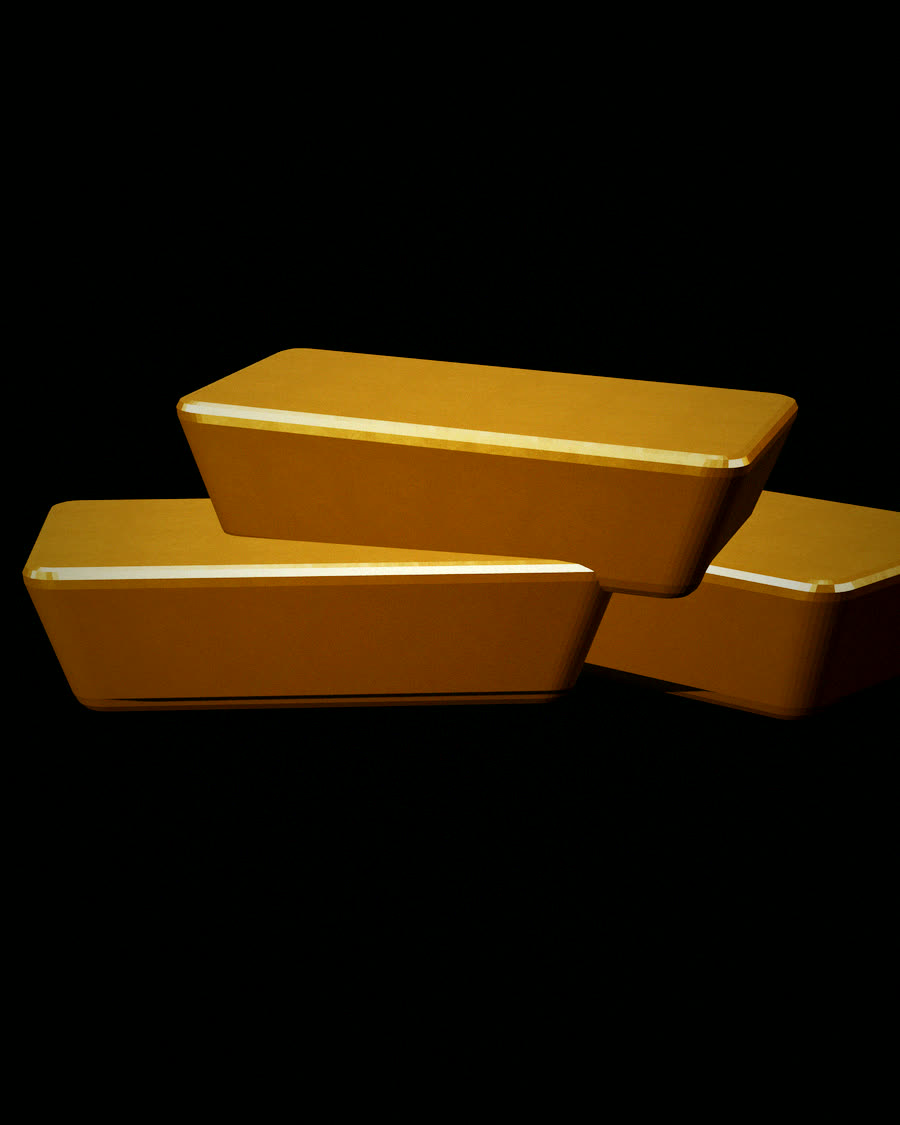
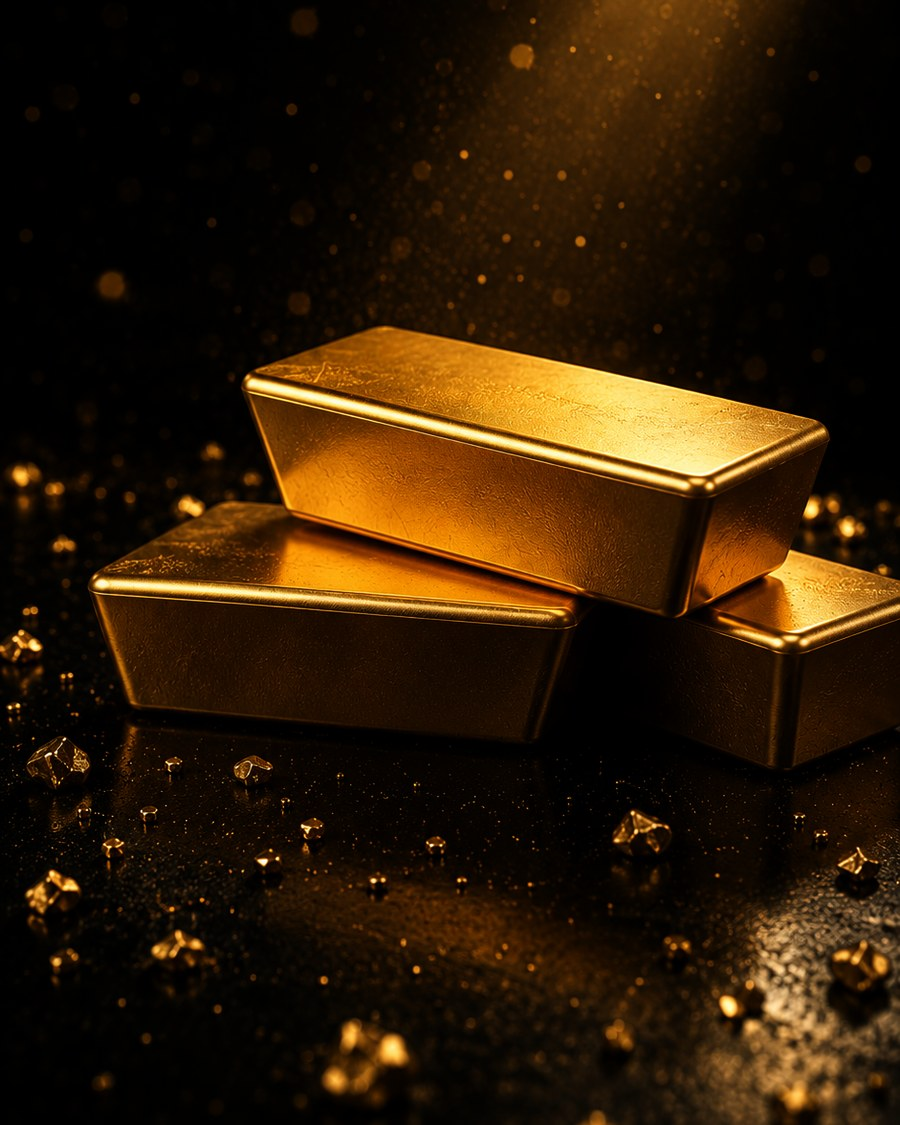
Bars & Bullion: the client's own image replaces the interim render
Five search rounds could not find licensable bullion photography that cleared
rule 2 of public/img/CREDITS.md, because commercial bullion photography exists
precisely to show the refiner's marks. The interim answer was a still rendered
from this site's own `ingotGeometry` — unmarked by construction, correct on the
rules, and weak beside two real photographs.

The client supplied this one, and it is better in every way that matters.

CHECKED BEFORE USE, NOT AFTER

The rule that removed the original bullion.jpg is the rule most likely to catch
this project out again, so the bar faces were inspected at full resolution
rather than at panel size. They carry cast surface texture only: no maker stamp,
no serial, no crest, no fineness claim. Nothing in frame asserts anything the
client has not verified. Rules 1 and 3 are not in question — no people, no
third-party premises.

TONED TO JOIN THE SET RATHER THAN LEAD IT

Cropped 4:5 from the 941x1672 source, keeping the light shaft and the grain
foreground, then a 1.34 gamma on the shadows and mids because it arrived
brighter than every neighbour: mean luminance 41.6 against jewellery's 25.8 and
coins' 33.0. It now sits at 29.9 with p90 94, inside the range the other three
occupy. The panel's own brightness(0.72) treatment then applies on top.

PROVENANCE RECORDED HONESTLY

CREDITS.md gains a row, and it deliberately does NOT claim a stock licence:
this is a client-generated ChatGPT image, client-owned under OpenAI's terms.
[…]

diff --git a/src/lib/site.ts b/src/lib/site.ts
@@ -379,7 +379,7 @@ export const services: readonly Service[] = [
     */
     image: "/img/bullion.jpg",
     imageAlt:
-      "Three cast gold bars resting on a dark surface, lit from one side, with no refiner markings.",
+      "Three cast gold bars stacked on a dark surface under a shaft of warm light, scattered with small gold grains, carrying no refiner markings.",
     enquiryHref: "/contact",
     confirmed: true,
   },

diff --git a/public/img/CREDITS.md b/public/img/CREDITS.md
@@ -7,8 +7,9 @@ Every photograph served from this directory, its licence, and why it was chosen.
 | `jewellery.jpg` | [Unsplash](https://unsplash.com/photos/LQdSOAw13KE) | [Unsplash License](https://unsplash.com/license) | Gold Jewellery panel |
 | `coins.jpg` | Openverse → rawpixel, public-domain museum work | **CC0 1.0** | Coins panel |
 | `silver.jpg` | [Pixabay](https://pixabay.com/photos/jewellery-2006/) — `cdn.pixabay.com/photo/2010/12/13/09/57/jewellery-2006_1280.jpg` | [Pixabay Content License](https://pixabay.com/service/license-summary/) — free commercial use, no attribution required | Silver panel |
+| `bullion.jpg` | **Client-supplied.** Generated by the client in ChatGPT — source `ChatGPT Image Aug 1, 2026, 10_08_16 AM.png`, 941×1672 | Client-owned: under OpenAI's terms the generating user holds the output rights, so it is theirs to use commercially. **This is NOT a stock licence — do not treat it as one, and do not assume a future replacement from the same folder carries one either.** Worth the client knowing that purely AI-generated images cannot be registered for copyright in some jurisdictions, including the US, which affects the ability to stop others reusing it — it does not affect their right to use it here. | Bars & Bullion panel |
 
-All three are served **pre-cropped to 900×1125 (4:5)** — the exact aspect the panels
+All four are served **pre-cropped to 900×1125 (4:5)** — the exact aspect the panels
 render. Cropping at source rather than with `object-cover` matters because the
 static build sets `images.unoptimized`, which disables Next's responsive
 `srcSet` entirely: every visitor downloads one fixed file, so any pixel outside
@@ -97,32 +98,27 @@ Cropped 4:5 favouring the filigree cluster, cooled slightly
 champagne — the panel's own gold overlay re-warms everything it touches — with
 the black deepened and a soft vignette. 65 KB.
 
-## The Bars & Bullion panel keeps the engraved plate, with evidence
+## The Bars & Bullion panel — resolved, after five failed search rounds
 
-Four search rounds now (Openverse CC0, Openverse CC-BY, Wikimedia, Pixabay) and
-every photographed bullion candidate fails rule 2 the same way the removed
-`bullion.jpg` did. The final Pixabay round, inspected under a grid overlay:
+Four search rounds (Openverse CC0, Openverse CC-BY, Wikimedia, Pixabay) and a
+fifth pass all failed the same way, and the failure was structural rather than
+bad luck: commercial bullion photography exists to SHOW the refiner's marks, and
+the marks are exactly what rule 2 forbids. Every candidate carried a maker stamp,
+a `999.9`, or a serial:
 
 - `gold-295936/295938`: cast button ingots with legible maker stamps and `999.9`
 - the stacked-bars macro: `FINE GOLD`, `999.9` and serial `100476` embossed on
-  **every visible face** — there is no clean 4:5 region
-- the remaining results were a 1933 US Double Eagle coin, a treasure pile of
-  coins (wrong panel), clipart, lava, and iron pyrite — fool's gold, on the
-  bullion panel of a gold-buying business
+  **every visible face** — no clean 4:5 region exists
+- the remainder were a 1933 Double Eagle, a coin pile (wrong panel), clipart,
+  lava, and iron pyrite — fool's gold, on a gold-buyer's bullion panel
 
-This is structural, not bad luck: commercial bullion photography exists to show
-the marks, and the marks are precisely what the rubric forbids. What unlocks the
-panel is photography of the client's own stock, or artwork commissioned without
-marks.
+An interim solution shipped briefly: a still rendered from this site's own
+`ingotGeometry`, which is unmarked by construction. It was correct on the rules
+and weak beside two real photographs.
 
-**What would unlock the bullion panel properly**, in order of preference:
-
-1. **Real photography of the actual counter, scales and stock.** The only images
-   that will genuinely serve this site, and they double as the answer for the
-   Visit panel.
-2. **An Unsplash or Pexels API key.** Both have this style — `jewellery.jpg`
-   came from Unsplash — but their catalogues are unreachable without one, and
-   even there, bullion photography mostly exists to show the marks.
-3. **Client-chosen images dropped into this directory.** Anything added here must
-   be checked against the three rules above first; rule 2 is the one that has
-   already caught this project out.
+The client then supplied the current image, which resolves it properly. It was
+checked against all three rules before use — the bar faces were inspected at
+full resolution, and they carry cast surface texture only: no stamp, no serial,
+no crest, no fineness claim. Toned to sit with its neighbours rather than
+outshine them: mean luminance 29.8 and p90 94, against jewellery at 25.8/105 and
+coins at 33.0/97.
